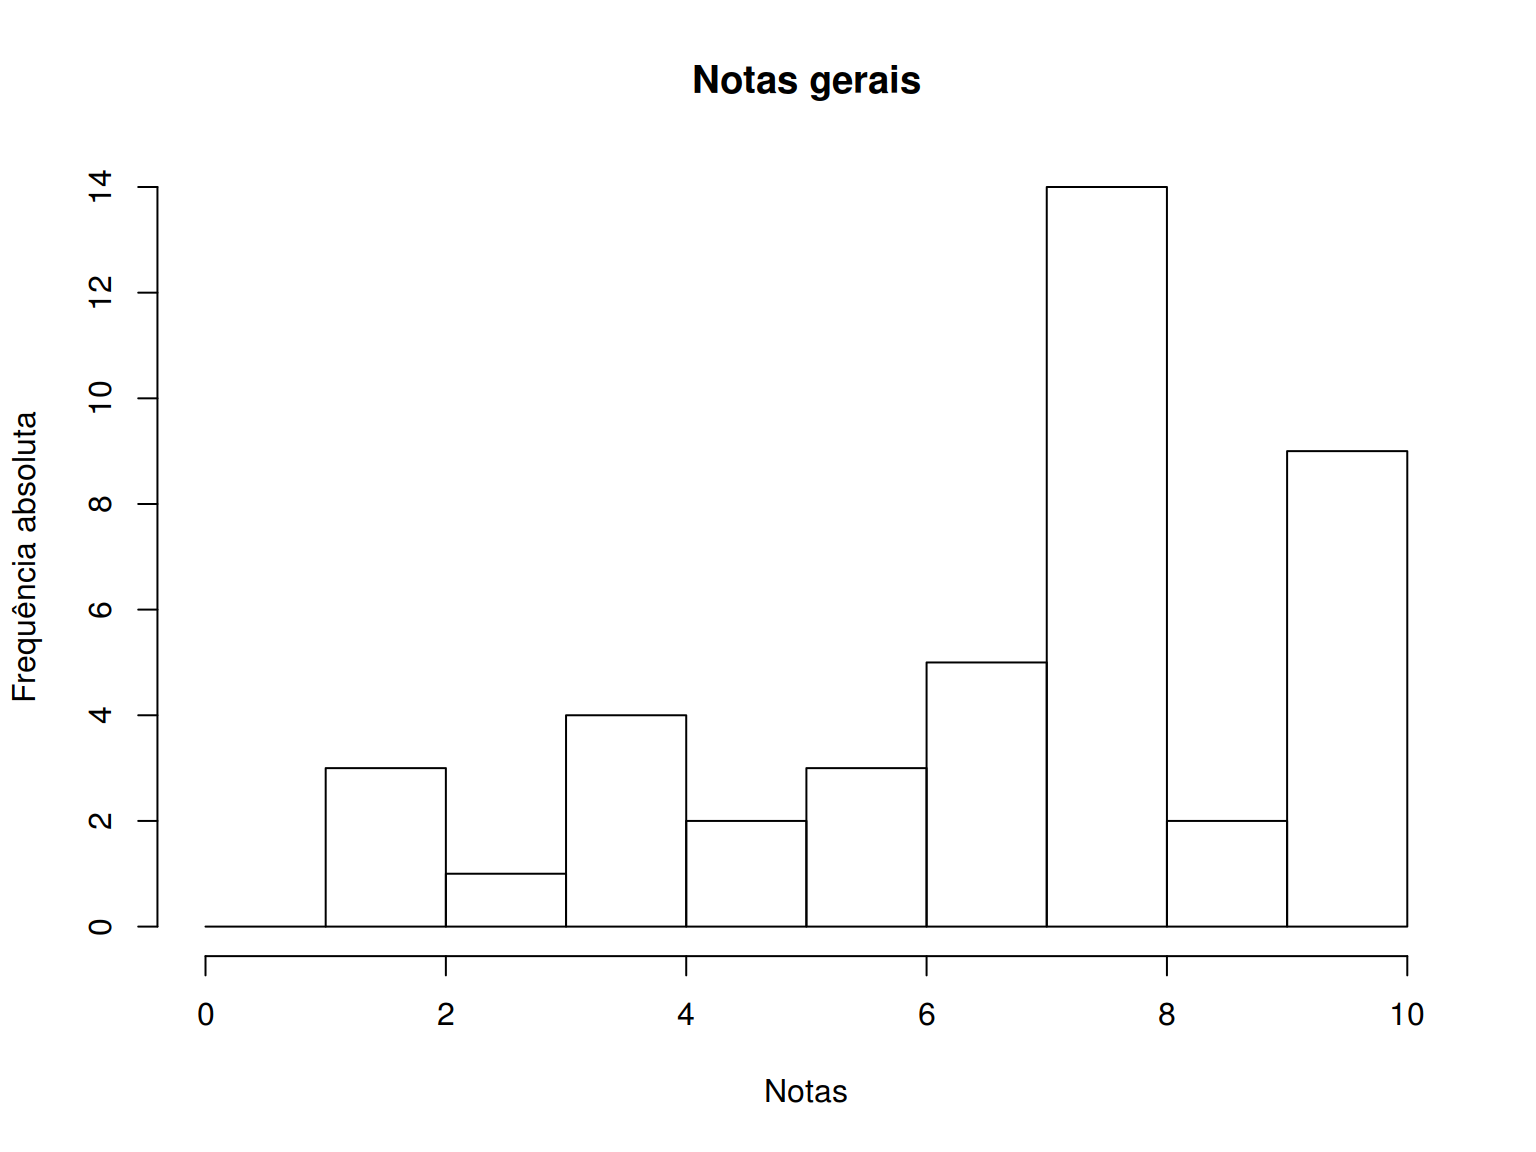
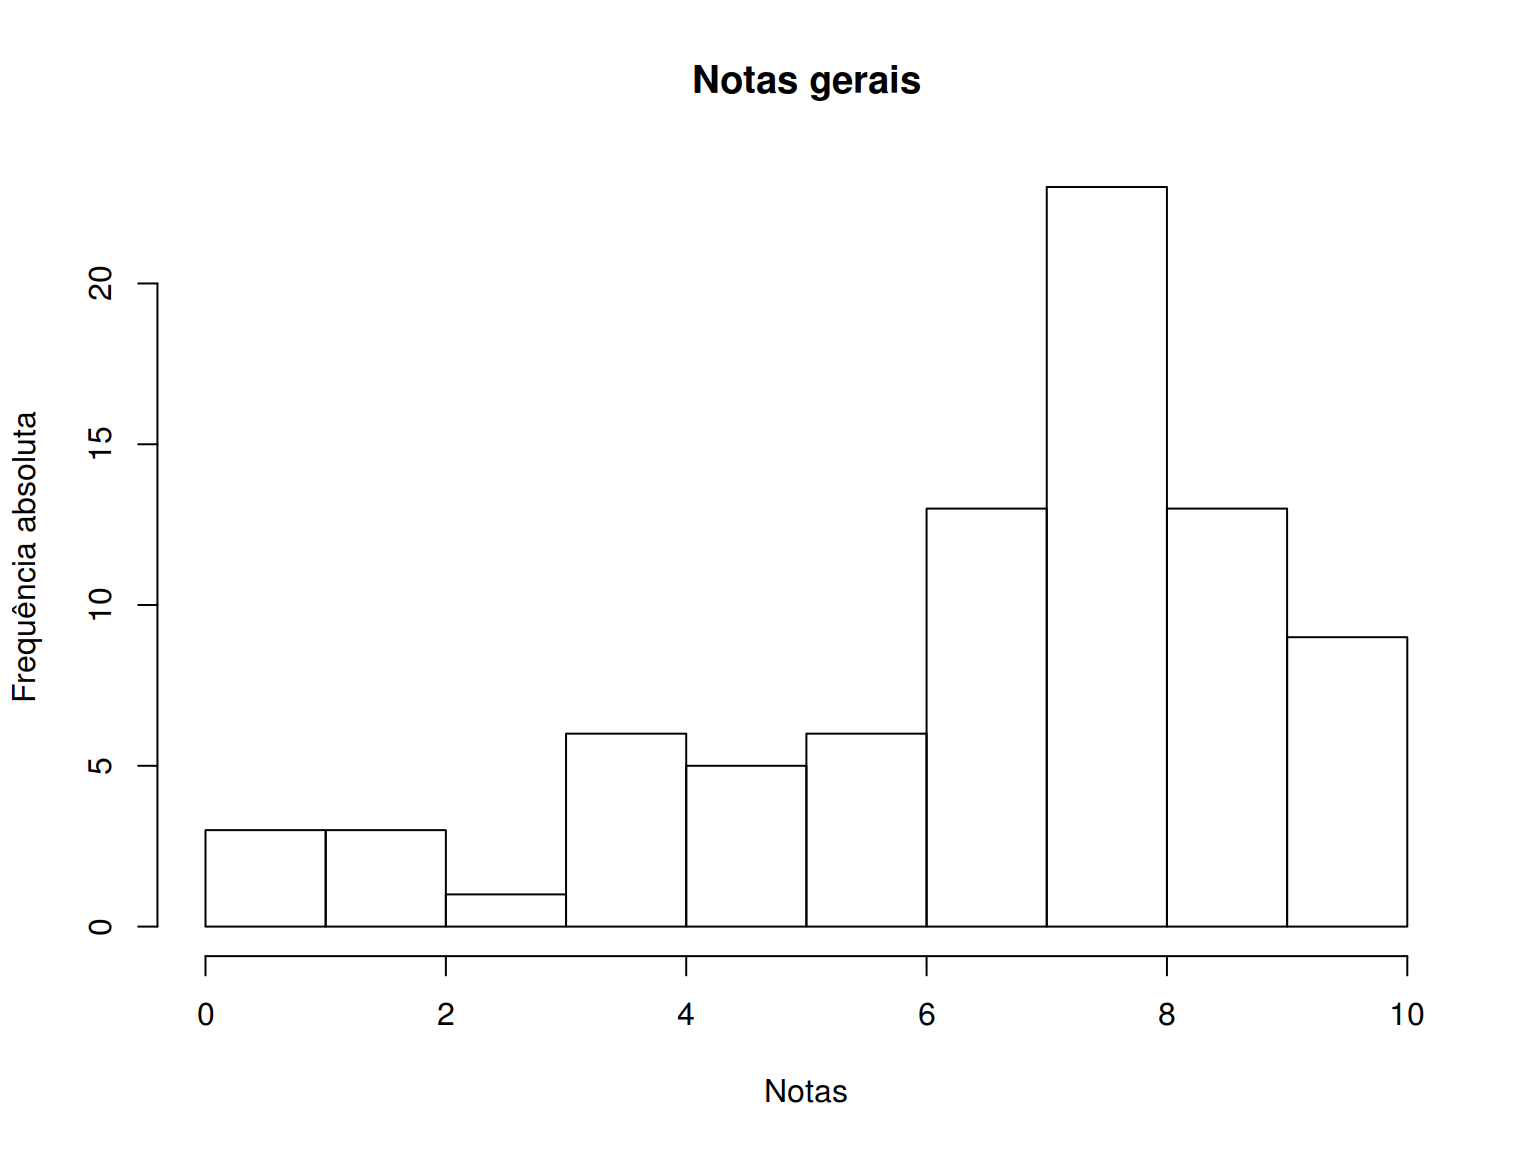
Atualiza notas com P2

diff --git a/notas.html b/notas.html
@@ -317,7 +317,7 @@ hist(notas.all, breaks = breaks, right = FALSE, include.lowest = TRUE,
 }
 round(statm(notas.all), 2)</code></pre>
 <pre><code>  Min    Q1    Q2    Q3   Max Média     s   NAs 
- 1.81  5.32  7.14  8.29 10.00  6.71  2.45 13.00 </code></pre>
+ 0.00  5.10  7.10  8.00 10.00  6.54  2.38 30.00 </code></pre>
 </div>
 <div id="resumos-por-prova" class="section level2">
 <h2>Resumos por prova</h2>
@@ -327,251 +327,308 @@ boxplot(notas[, notas.col], ylim = c(0, 10), ylab = &quot;Notas&quot;)</code></p
 <p><img src="figures/unnamed-chunk-4-1.png" width="768" style="display: block; margin: auto;" /></p>
 <p>Resumo dos cinco números, média, desvio-padrão, e número de provas não realizadas (NA):</p>
 <pre class="r"><code>round(apply(notas[, notas.col, drop = FALSE], 2, statm), 2)</code></pre>
-<pre><code>         P1
-Min    1.81
-Q1     5.32
-Q2     7.14
-Q3     8.29
-Max   10.00
-Média  6.71
-s      2.45
-NAs   13.00</code></pre>
+<pre><code>         P1    P2
+Min    1.81  0.00
+Q1     5.32  5.40
+Q2     7.14  7.01
+Q3     8.29  8.00
+Max   10.00  8.74
+Média  6.71  6.35
+s      2.45  2.31
+NAs   13.00 17.00</code></pre>
 </div>
 <div id="notas-individuais" class="section level2">
 <h2>Notas individuais</h2>
 <!-- **Aqui estão apenas as notas individuais de cada sabatina. Veja na seção -->
 <!-- abaixo as médias finais calculadas!** -->
-<pre class="r"><code>kable(notas[, c(1, notas.col)], align = &quot;c&quot;)</code></pre>
+<pre class="r"><code>kable(notas[, c(1, notas.col)], align = &quot;c&quot;, digits = 2)</code></pre>
 <table>
 <thead>
 <tr class="header">
 <th align="center">Matricula</th>
 <th align="center">P1</th>
+<th align="center">P2</th>
 </tr>
 </thead>
 <tbody>
 <tr class="odd">
 <td align="center">20149114</td>
 <td align="center">NA</td>
+<td align="center">3.15</td>
 </tr>
 <tr class="even">
 <td align="center">20159136</td>
 <td align="center">7.28</td>
+<td align="center">5.08</td>
 </tr>
 <tr class="odd">
 <td align="center">20159322</td>
 <td align="center">4.60</td>
+<td align="center">7.01</td>
 </tr>
 <tr class="even">
 <td align="center">20159350</td>
+<td align="center">NA</td>
 <td align="center">NA</td>
 </tr>
 <tr class="odd">
 <td align="center">20159352</td>
 <td align="center">NA</td>
+<td align="center">NA</td>
 </tr>
 <tr class="even">
 <td align="center">20159393</td>
+<td align="center">NA</td>
 <td align="center">NA</td>
 </tr>
 <tr class="odd">
 <td align="center">20159409</td>
 <td align="center">10.00</td>
+<td align="center">NA</td>
 </tr>
 <tr class="even">
 <td align="center">20159417</td>
 <td align="center">4.27</td>
+<td align="center">4.70</td>
 </tr>
 <tr class="odd">
 <td align="center">20159775</td>
 <td align="center">7.02</td>
+<td align="center">6.20</td>
 </tr>
 <tr class="even">
 <td align="center">20159826</td>
 <td align="center">6.83</td>
+<td align="center">6.97</td>
 </tr>
 <tr class="odd">
 <td align="center">20159858</td>
 <td align="center">7.37</td>
+<td align="center">4.08</td>
 </tr>
 <tr class="even">
 <td align="center">20159999</td>
+<td align="center">NA</td>
 <td align="center">NA</td>
 </tr>
 <tr class="odd">
 <td align="center">20160023</td>
 <td align="center">9.17</td>
+<td align="center">5.03</td>
 </tr>
 <tr class="even">
 <td align="center">20160194</td>
 <td align="center">5.54</td>
+<td align="center">7.25</td>
 </tr>
 <tr class="odd">
 <td align="center">20160203</td>
 <td align="center">7.89</td>
+<td align="center">5.72</td>
 </tr>
 <tr class="even">
 <td align="center">20160204</td>
 <td align="center">5.62</td>
+<td align="center">8.33</td>
 </tr>
 <tr class="odd">
 <td align="center">20160205</td>
 <td align="center">3.11</td>
+<td align="center">NA</td>
 </tr>
 <tr class="even">
 <td align="center">20160206</td>
 <td align="center">10.00</td>
+<td align="center">7.48</td>
 </tr>
 <tr class="odd">
 <td align="center">20160208</td>
 <td align="center">7.14</td>
+<td align="center">7.80</td>
 </tr>
 <tr class="even">
 <td align="center">20160209</td>
+<td align="center">NA</td>
 <td align="center">NA</td>
 </tr>
 <tr class="odd">
 <td align="center">20160210</td>
 <td align="center">9.98</td>
+<td align="center">8.62</td>
 </tr>
 <tr class="even">
 <td align="center">20160211</td>
 <td align="center">6.62</td>
+<td align="center">3.83</td>
 </tr>
 <tr class="odd">
 <td align="center">20160212</td>
+<td align="center">NA</td>
 <td align="center">NA</td>
 </tr>
 <tr class="even">
 <td align="center">20160213</td>
 <td align="center">7.24</td>
+<td align="center">8.65</td>
 </tr>
 <tr class="odd">
 <td align="center">20160214</td>
 <td align="center">1.81</td>
+<td align="center">8.07</td>
 </tr>
 <tr class="even">
 <td align="center">20160215</td>
 <td align="center">5.10</td>
+<td align="center">6.97</td>
 </tr>
 <tr class="odd">
 <td align="center">20160216</td>
 <td align="center">6.66</td>
+<td align="center">8.49</td>
 </tr>
 <tr class="even">
 <td align="center">20160217</td>
 <td align="center">10.00</td>
+<td align="center">7.59</td>
 </tr>
 <tr class="odd">
 <td align="center">20160218</td>
 <td align="center">6.05</td>
+<td align="center">6.47</td>
 </tr>
 <tr class="even">
 <td align="center">20160219</td>
 <td align="center">9.98</td>
+<td align="center">8.54</td>
 </tr>
 <tr class="odd">
 <td align="center">20160220</td>
 <td align="center">9.42</td>
+<td align="center">7.95</td>
 </tr>
 <tr class="even">
 <td align="center">20160221</td>
 <td align="center">7.14</td>
+<td align="center">7.08</td>
 </tr>
 <tr class="odd">
 <td align="center">20160222</td>
 <td align="center">3.15</td>
+<td align="center">6.17</td>
 </tr>
 <tr class="even">
 <td align="center">20160223</td>
 <td align="center">7.58</td>
+<td align="center">8.74</td>
 </tr>
 <tr class="odd">
 <td align="center">20160224</td>
 <td align="center">9.27</td>
+<td align="center">NA</td>
 </tr>
 <tr class="even">
 <td align="center">20160225</td>
 <td align="center">7.45</td>
+<td align="center">6.03</td>
 </tr>
 <tr class="odd">
 <td align="center">20160226</td>
 <td align="center">7.10</td>
+<td align="center">7.53</td>
 </tr>
 <tr class="even">
 <td align="center">20160227</td>
 <td align="center">1.81</td>
+<td align="center">0.50</td>
 </tr>
 <tr class="odd">
 <td align="center">20160228</td>
+<td align="center">NA</td>
 <td align="center">NA</td>
 </tr>
 <tr class="even">
 <td align="center">20160229</td>
 <td align="center">3.48</td>
+<td align="center">0.00</td>
 </tr>
 <tr class="odd">
 <td align="center">20160230</td>
 <td align="center">3.85</td>
+<td align="center">7.10</td>
 </tr>
 <tr class="even">
 <td align="center">20160231</td>
 <td align="center">8.84</td>
+<td align="center">8.00</td>
 </tr>
 <tr class="odd">
 <td align="center">20160232</td>
 <td align="center">1.87</td>
+<td align="center">NA</td>
 </tr>
 <tr class="even">
 <td align="center">20160233</td>
 <td align="center">2.20</td>
+<td align="center">4.90</td>
 </tr>
 <tr class="odd">
 <td align="center">20160234</td>
 <td align="center">7.62</td>
+<td align="center">NA</td>
 </tr>
 <tr class="even">
 <td align="center">20160235</td>
 <td align="center">6.87</td>
+<td align="center">8.51</td>
 </tr>
 <tr class="odd">
 <td align="center">20160236</td>
+<td align="center">NA</td>
 <td align="center">NA</td>
 </tr>
 <tr class="even">
 <td align="center">20160237</td>
 <td align="center">7.85</td>
+<td align="center">8.22</td>
 </tr>
 <tr class="odd">
 <td align="center">20160238</td>
 <td align="center">8.69</td>
+<td align="center">0.00</td>
 </tr>
 <tr class="even">
 <td align="center">20160239</td>
 <td align="center">9.71</td>
+<td align="center">8.00</td>
 </tr>
 <tr class="odd">
 <td align="center">20160240</td>
 <td align="center">7.43</td>
+<td align="center">6.20</td>
 </tr>
 <tr class="even">
 <td align="center">20160242</td>
 <td align="center">7.74</td>
+<td align="center">6.80</td>
 </tr>
 <tr class="odd">
 <td align="center">20160304</td>
+<td align="center">NA</td>
 <td align="center">NA</td>
 </tr>
 <tr class="even">
 <td align="center">20162949</td>
 <td align="center">NA</td>
+<td align="center">NA</td>
 </tr>
 <tr class="odd">
 <td align="center">20165725</td>
 <td align="center">NA</td>
+<td align="center">NA</td>
 </tr>
 <tr class="even">
 <td align="center">20165740</td>
+<td align="center">NA</td>
 <td align="center">NA</td>
 </tr>
 </tbody>
